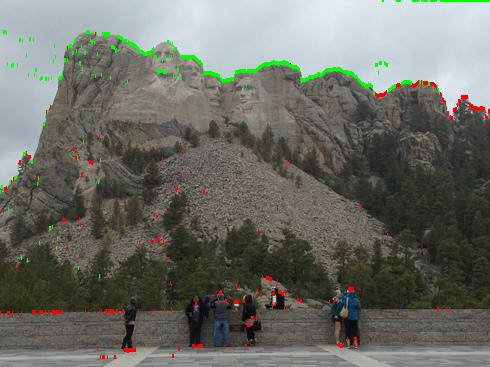
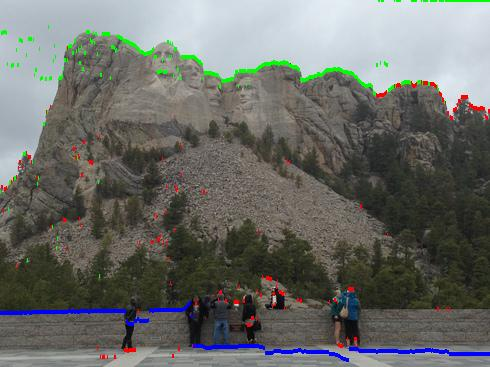
HMM

diff --git a/part2/mountain.py b/part2/mountain.py
@@ -55,6 +55,28 @@ class mountainRidgeFinding:
 					newList.append(edge_strength[j][i]*((yFloat - yCoord)/ yFloat))
 			sampleList.append(newList.index(max(newList)))
 		return sampleList
+
+	def sample2(self):
+		sampleList = []
+		xCoord = edge_strength.shape[1]
+		yCoord = edge_strength.shape[0]
+		for i in range(0, xCoord):
+			newList = []
+			for j in range(0, yCoord):
+				if(i == 0):
+					newList.append(edge_strength[j][i])
+				else:
+					lastRow = sampleList[len(sampleList)-1]
+					if(lastRow > j):
+						distanceFromLastRow = lastRow - j
+						newList.append(edge_strength[j][i] * (1.0 / distanceFromLastRow ))
+					elif(lastRow == j):
+						newList.append(edge_strength[j][i])
+					else:
+						distanceFromLastRow = j - lastRow
+						newList.append(edge_strength[j][i] * (1.0 / distanceFromLastRow))
+			sampleList.append(newList.index(max(newList)))
+		return sampleList
 		
 
 	def mainClass(self):
@@ -65,7 +87,8 @@ class mountainRidgeFinding:
 			coordTuple = self.calculateRandomGradient()
 			samples.append(self.calculateSample(coordTuple[0], coordTuple[1]))
 		#print(samples)
-		return samples
+		samples2 = self.sample2()
+		return (samples,samples2)
 
 # calculate "Edge strength map" of an image
 #
@@ -158,15 +181,18 @@ mountain = mountainRidgeFinding(edge_strength)
 sampleList = mountain.mainClass()
 #print("sample",len(sampleList[0]))
 
+sampleListOld = sampleList[0]
+sampleListNew = sampleList[1]
+
 newRidge2 = []
-for i in range(0, len(sampleList[0])):
+for i in range(0, len(sampleListOld[0])):
 	newDict = {}
-	for j in range(0, len(sampleList)):
-		if(newDict.get(sampleList[j][i]) != None):
-			value = newDict[sampleList[j][i]]
-			newDict[sampleList[j][i]] = value + 1
+	for j in range(0, len(sampleListOld)):
+		if(newDict.get(sampleListOld[j][i]) != None):
+			value = newDict[sampleListOld[j][i]]
+			newDict[sampleListOld[j][i]] = value + 1
 		else:
-			newDict[sampleList[j][i]] = 1
+			newDict[sampleListOld[j][i]] = 1
 	#print(newDict)
 	newRidge2.append(max(newDict, key=(lambda key: newDict[key])))
 #print(newRidge2)
@@ -174,3 +200,4 @@ for i in range(0, len(sampleList[0])):
 # output answer
 imsave(output_filename, draw_edge(input_image, ridge, (255, 0, 0), 5))
 imsave(output_filename, draw_edge(input_image, newRidge2, (0, 255, 0), 5))
+imsave(output_filename, draw_edge(input_image, sampleListNew, (0, 0, 255), 5))
